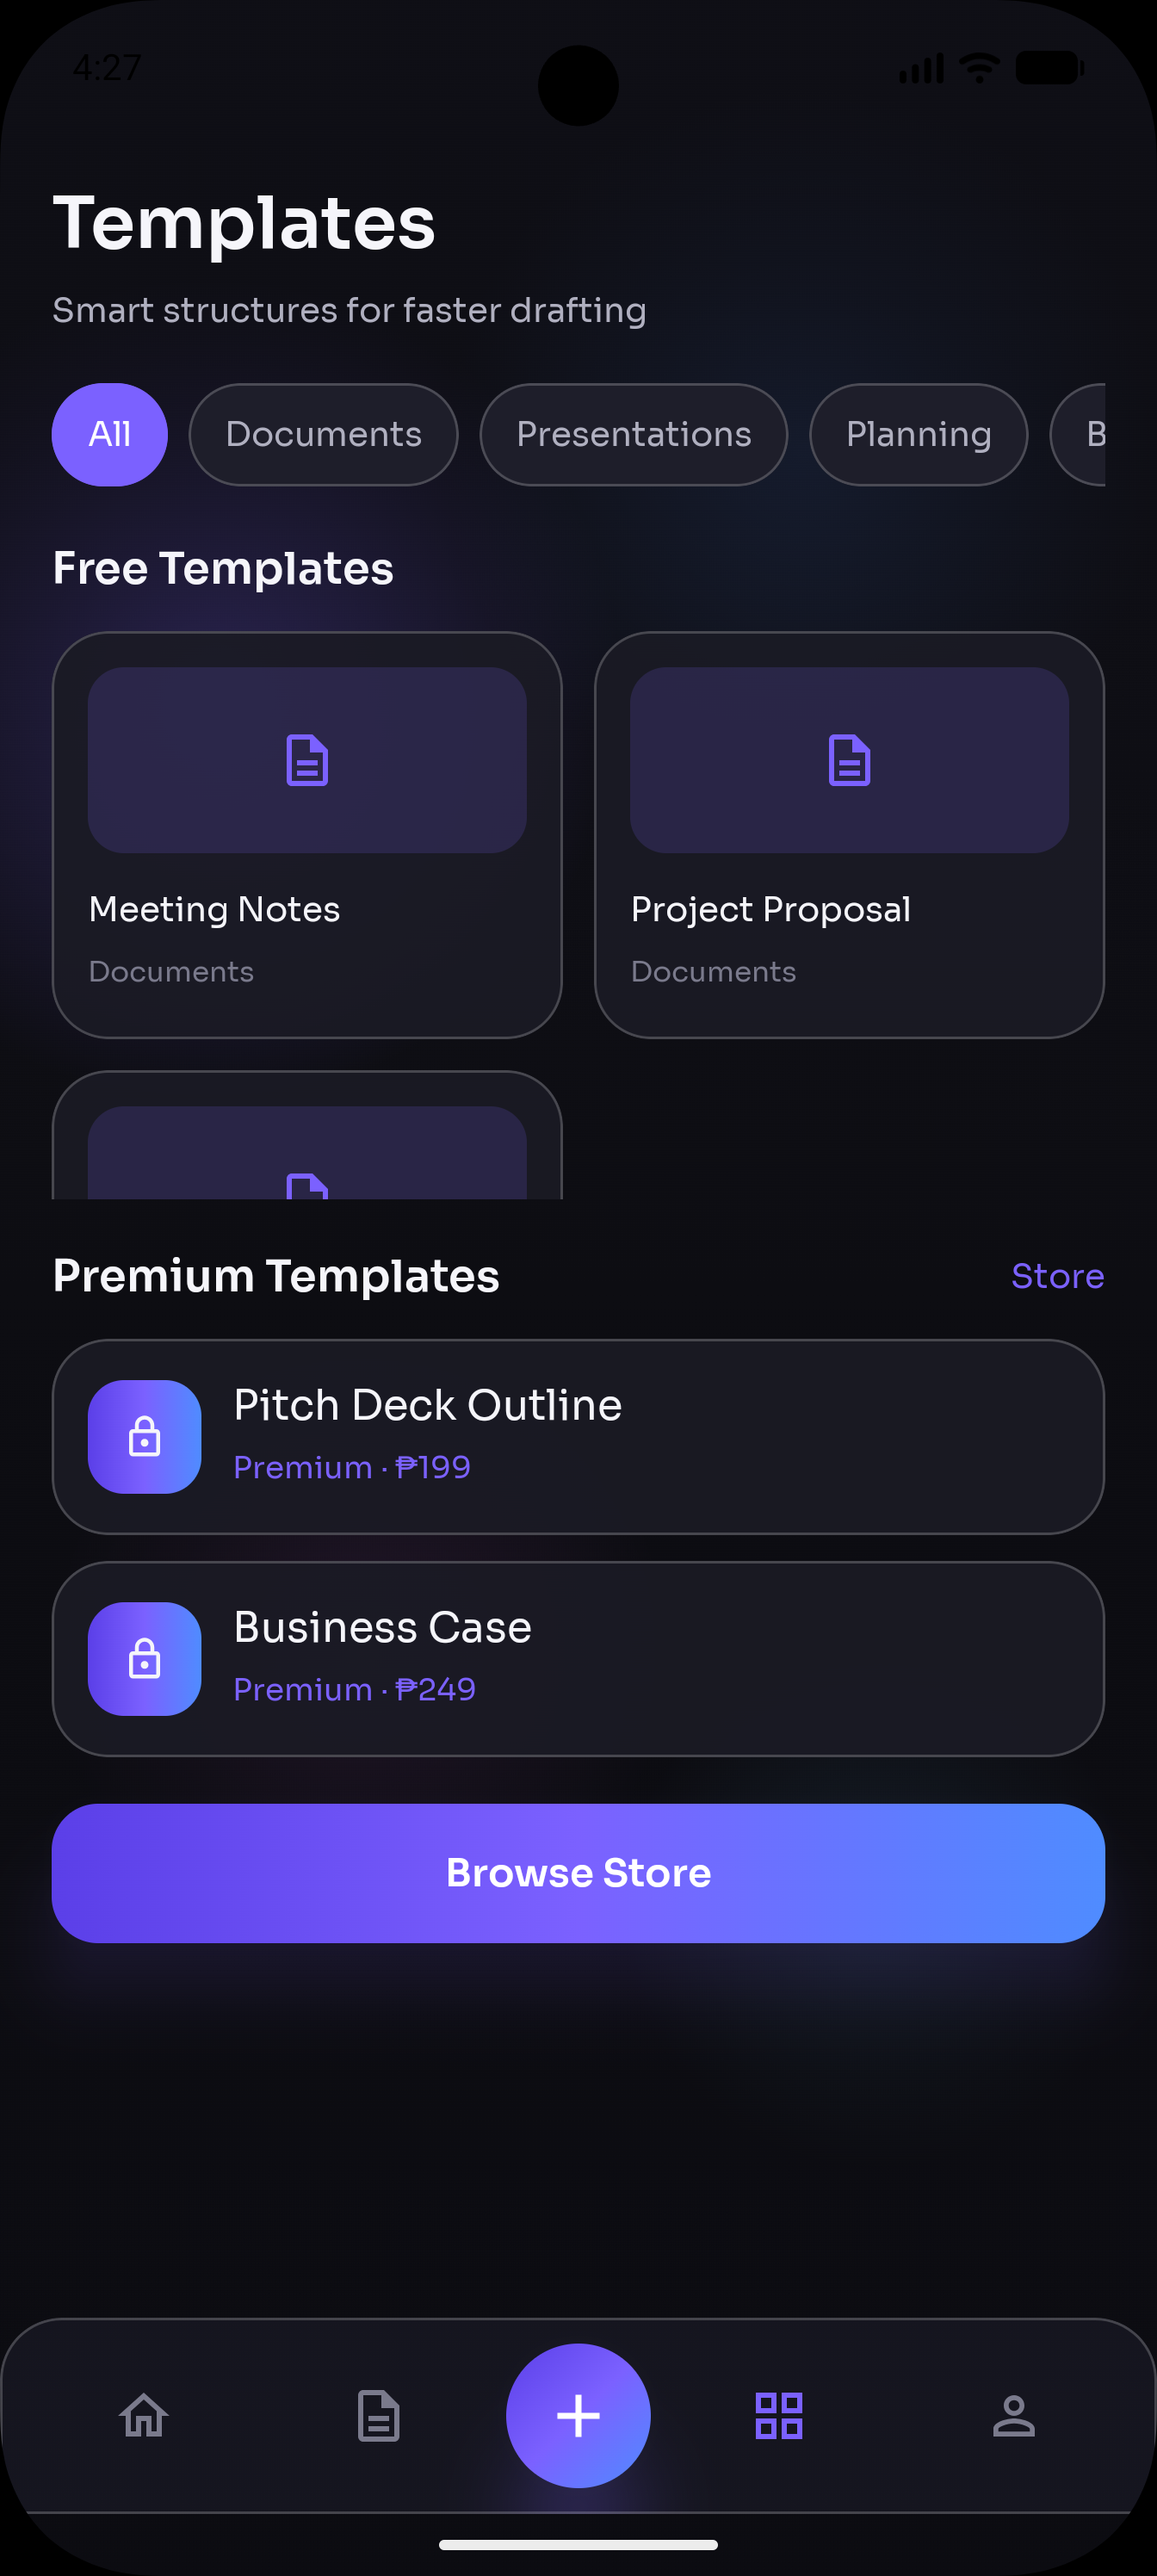
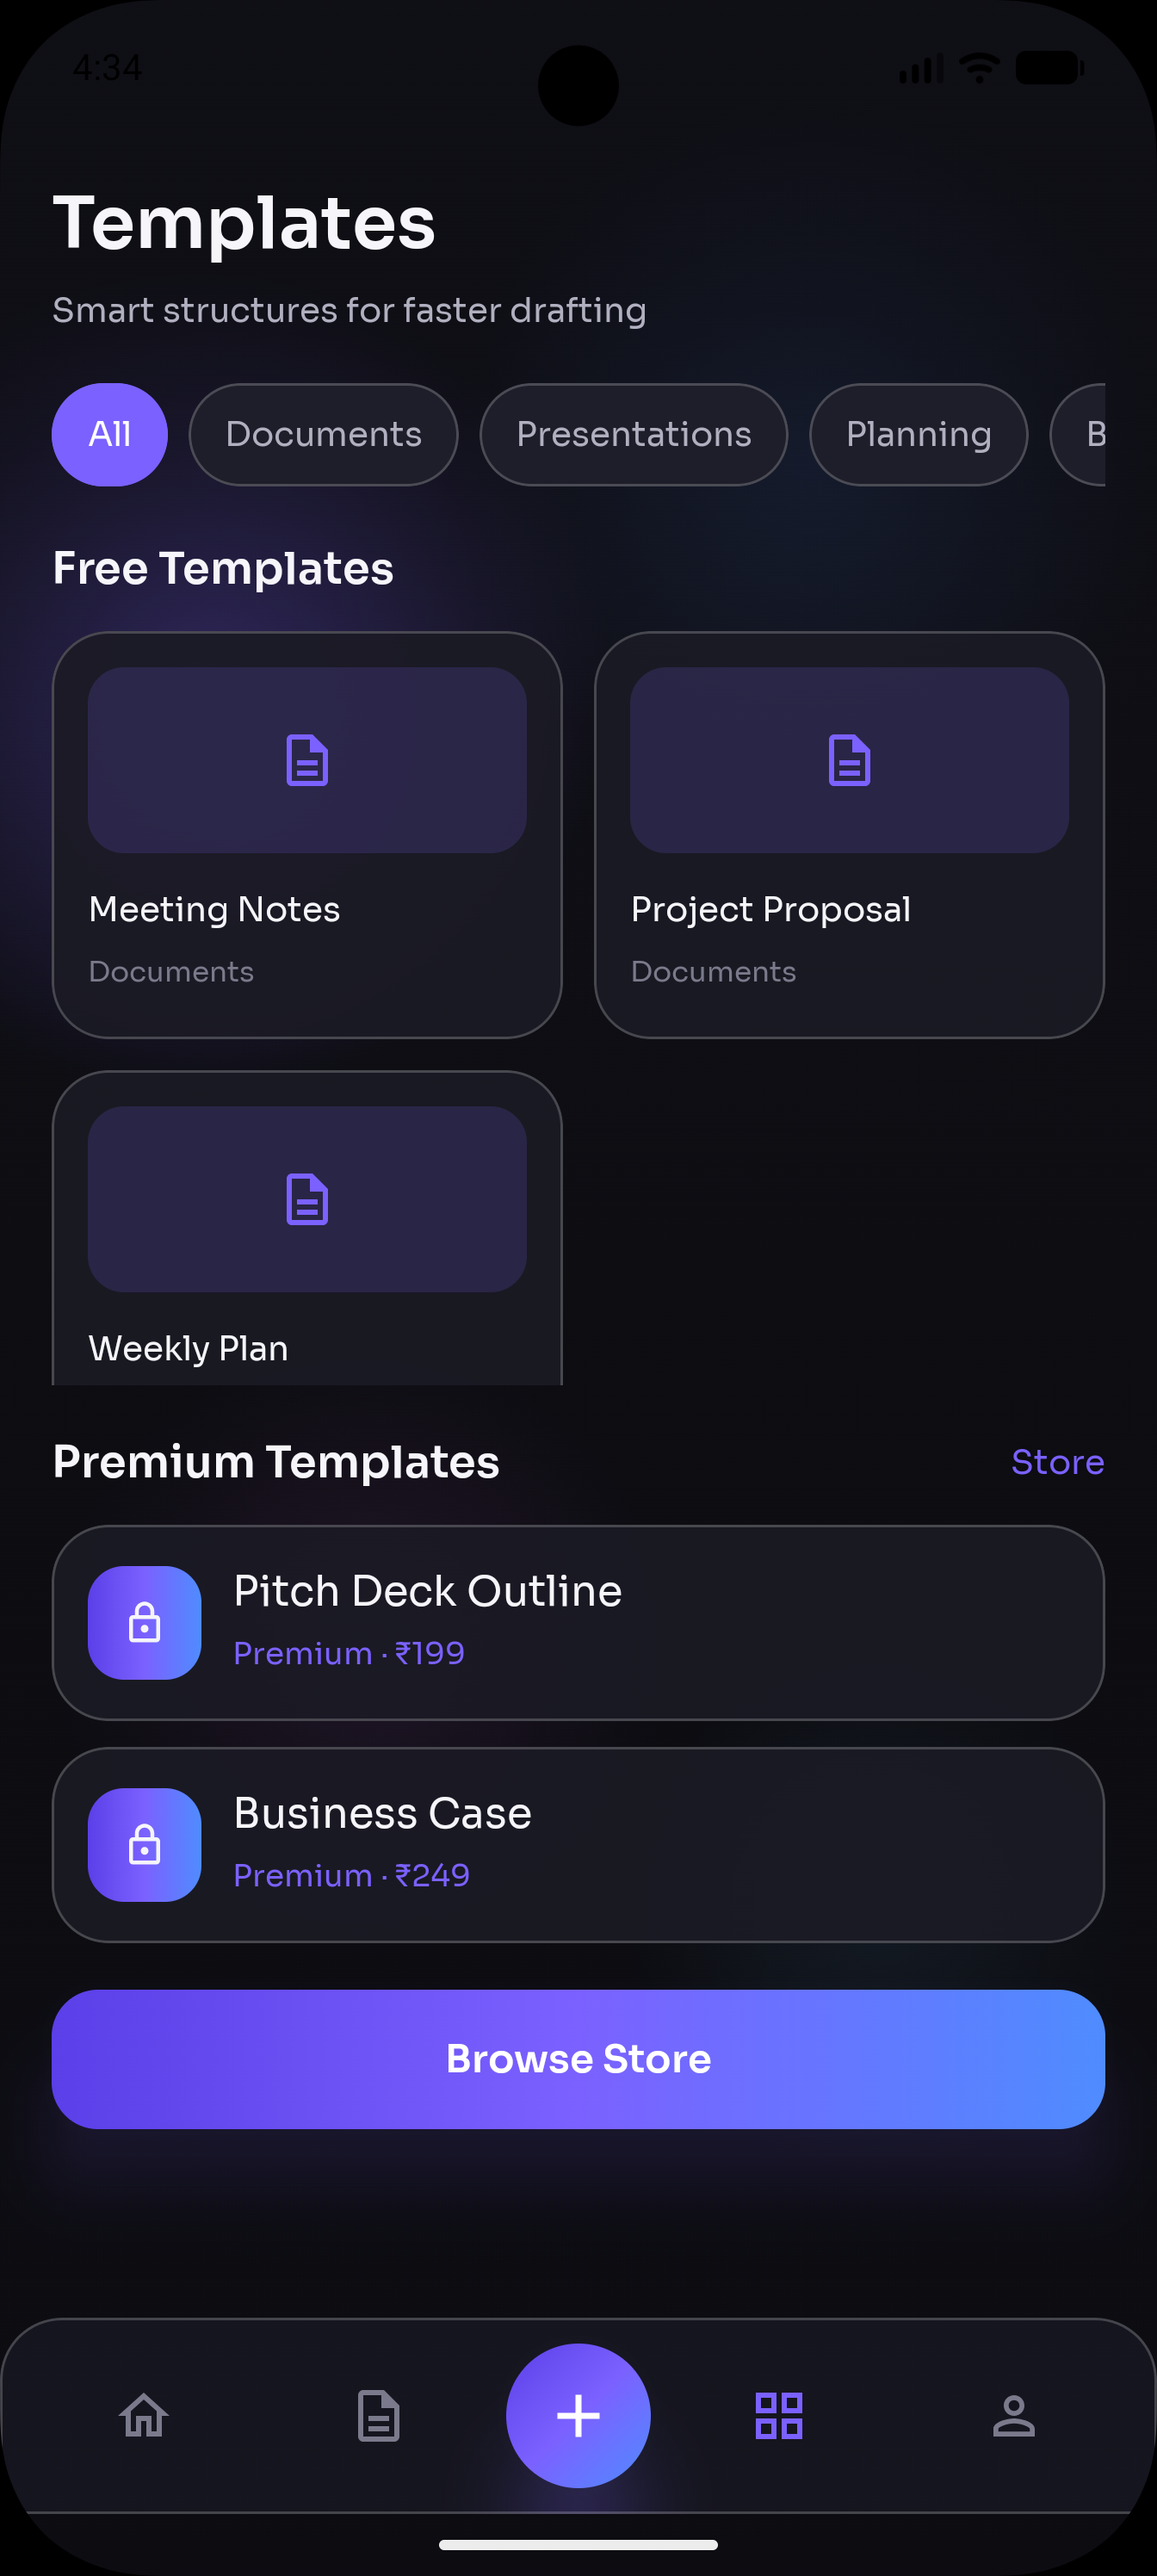
Add Store and Templates payment screenshots to README (#6)
Shows premium pricing with ₹ on Templates and the Store unlock flow.

Changed region(s): [[0.0312, 0.4662, 0.9688, 0.8392], [0.9375, 0.5595, 0.9688, 0.5906], [0.875, 0.5595, 0.9062, 0.5906]]

diff --git a/README.md b/README.md
@@ -12,13 +12,13 @@ Raw audio is **never** permanently stored.
 |:---:|:---:|:---:|
 | ![Home](docs/screenshots/home.png) | ![Documents](docs/screenshots/documents.png) | ![Create](docs/screenshots/create.png) |
 
-| Templates | Voice Input | Listening |
+| Templates | Store | Profile |
 |:---:|:---:|:---:|
-| ![Templates](docs/screenshots/templates.png) | ![Voice Input](docs/screenshots/voice.png) | ![Listening](docs/screenshots/listening.png) |
+| ![Templates](docs/screenshots/templates.png) | ![Store](docs/screenshots/store.png) | ![Profile](docs/screenshots/profile.png) |
 
-| Profile |
-|:---:|
-| ![Profile](docs/screenshots/profile.png) |
+| Voice Input | Listening |
+|:---:|:---:|
+| ![Voice Input](docs/screenshots/voice.png) | ![Listening](docs/screenshots/listening.png) |
 
 ## Architecture
 
